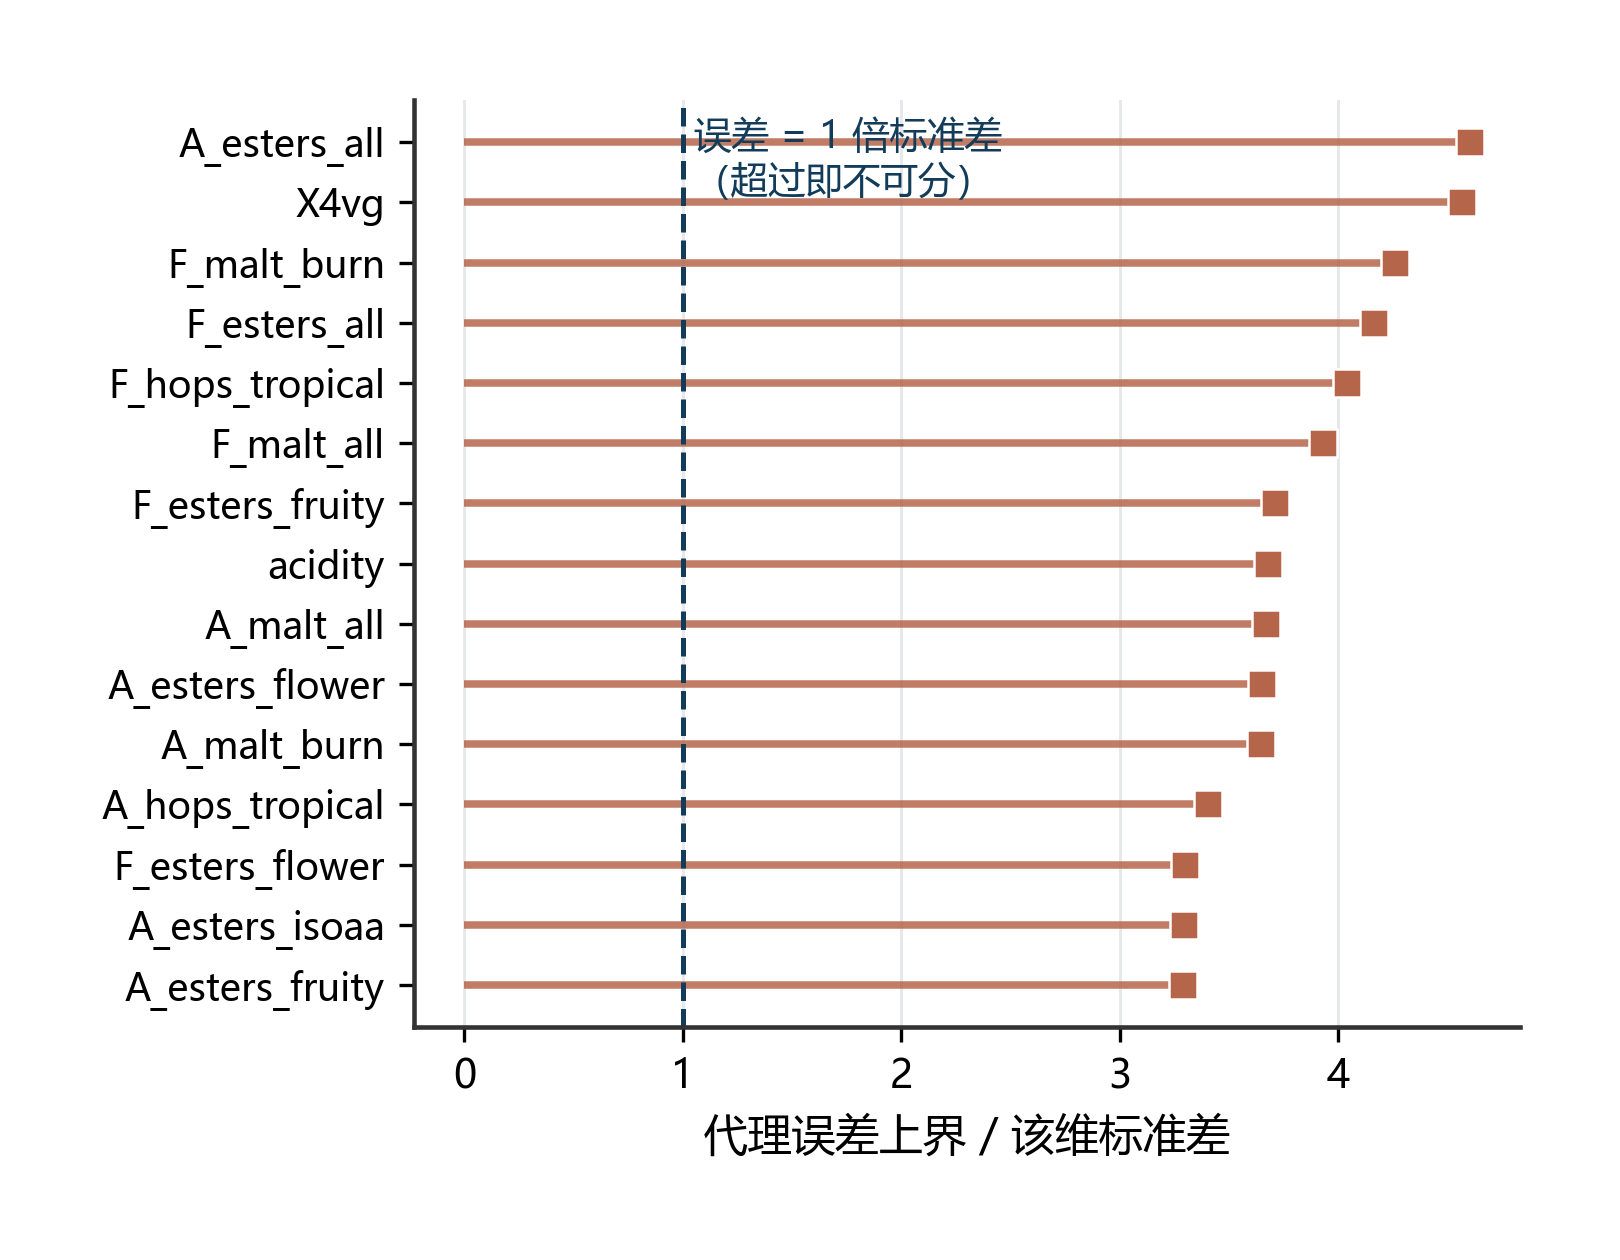
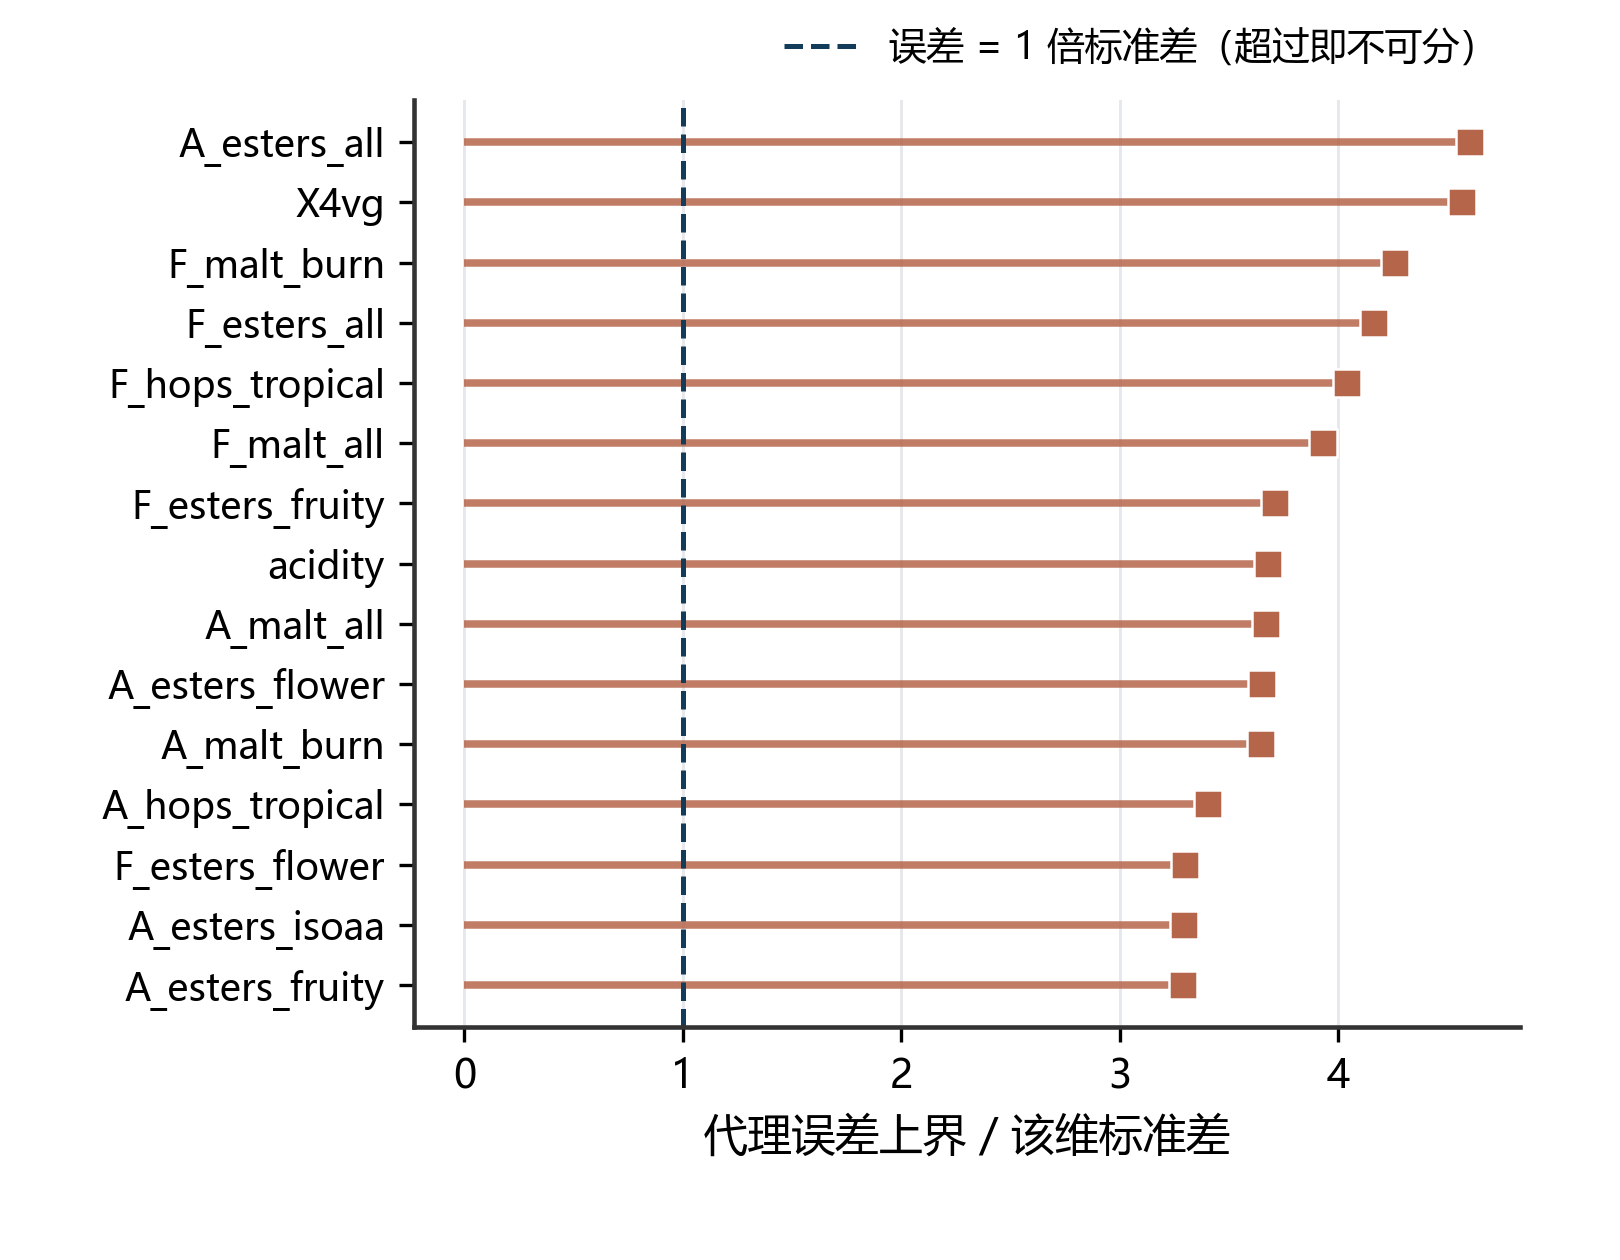
q3: 代理误差图的"1 倍标准差"说明压在两行数据上，改成轴外图例
"误差 = 1 倍标准差（超过即不可分）"原来作为文字标在 (1.05, len-0.6)，
正好压在最上面两行——A_esters_all（4.40）和 X4vg（4.25）的棒棒糖线上，
左边还紧贴 1.0 那条参考线本身。这也是 C-3 立的规矩：参考线用图例，
不要在图上写字。

改成 Line2D 图例条目放到轴外上方。没放轴内是因为 15 行全部铺满 0–4.4，
轴内任何位置都会压线。

重出 fig_q3_surrogate_err 的 PNG 与 SVG（5.4x4.2 in / 300 dpi、15 行数据、
参考线、轴范围均未动；逐像素差异全部落在 x[694,1472] y[27,197] 这个标注带内，
其余为 0）。

Changed region(s): [[0.6481, 0.0, 0.8951, 0.0619], [0.4321, 0.0929, 0.6173, 0.1548], [0.5556, 0.0, 0.6173, 0.0619]]

diff --git a/competitions/2026-mathorcup/code/figures.py b/competitions/2026-mathorcup/code/figures.py
@@ -1011,8 +1011,13 @@ def fig_q3_surrogate_err():
     ax.scatter(s.err_max_over_sd, y, s=44, color=C_WARN, marker='s',
                edgecolor='white', linewidth=0.6, zorder=3)
     ax.axvline(1.0, color=C_DEEP, linestyle='--', linewidth=1.2)
-    ax.text(1.05, len(s) - 0.6, '误差 = 1 倍标准差\n（超过即不可分）', fontsize=9,
-            color=C_DEEP, va='top')
+    # C-3：参考线不要在图上写字。这段说明原来放在 (1.05, len-0.6)，直接压在
+    # 最上面两行（A_esters_all 4.4、X4vg 4.25）的棒棒糖线上，还紧贴参考线。
+    # 改成图例条目放到轴外上方——15 行全部铺满 0–4.4，轴内没有不压线的位置。
+    ax.legend(handles=[Line2D([], [], color=C_DEEP, ls='--', lw=1.2,
+                              label='误差 = 1 倍标准差（超过即不可分）')],
+              loc='lower right', bbox_to_anchor=(1.0, 1.01), fontsize=9,
+              frameon=False, borderaxespad=0.2)
     ax.set_yticks(y)
     ax.set_yticklabels(s.sens.tolist(), fontsize=9)
     ax.set_xlabel('代理误差上界 / 该维标准差', fontsize=10.5)
